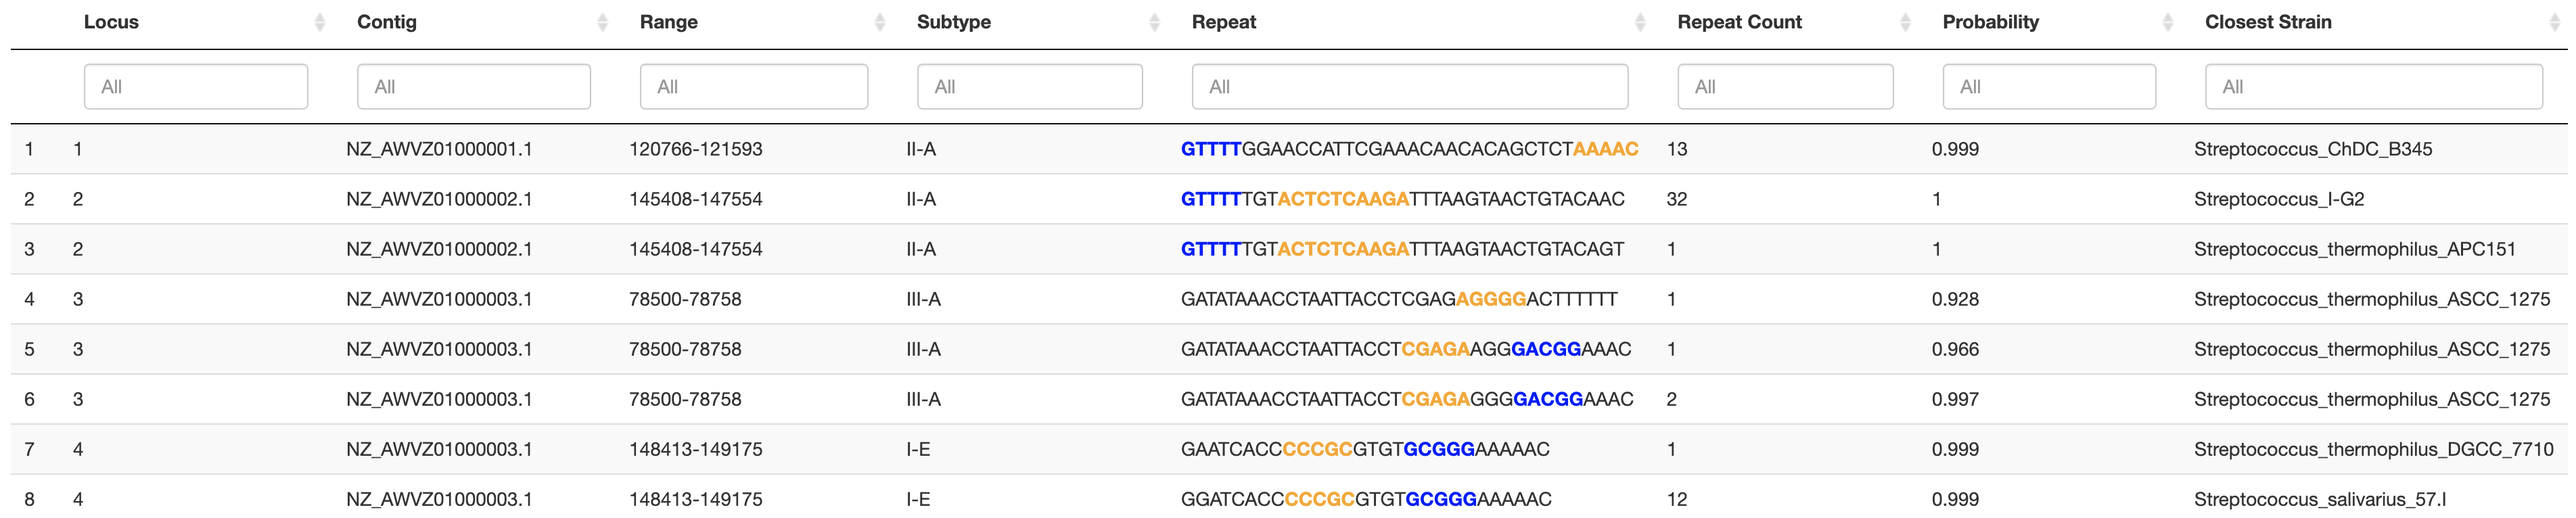
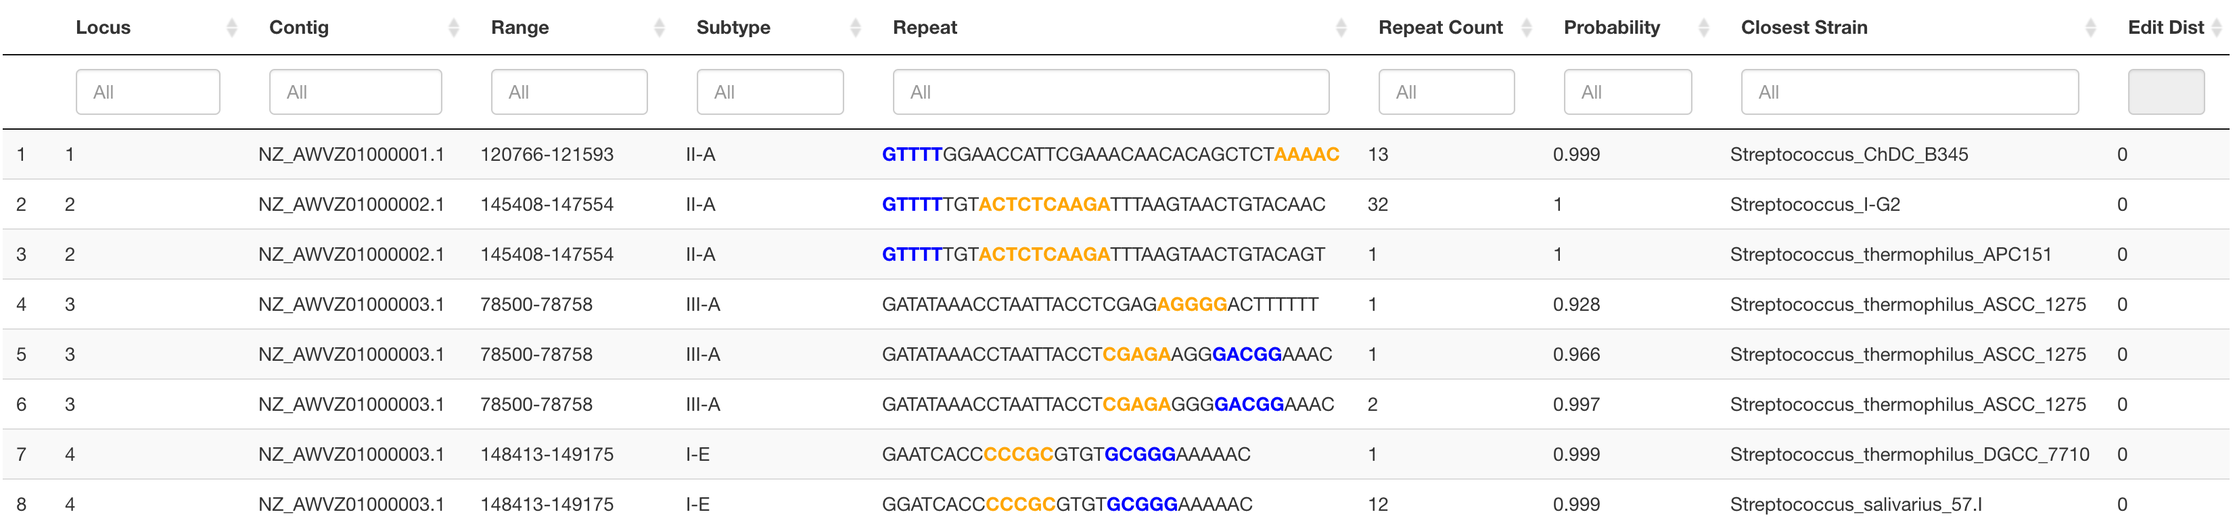
Edit distance added to output

diff --git a/README.md b/README.md
@@ -140,8 +140,9 @@ The grid output contains the following columns:
  - **Subtype:** Predicted subtype for this locus
  - **Repeat:** Lists all distinct repeats for each locus (duplicates are excluded). Blue and yellow highlights in the repeat sequence indicate significant k-mers that were used for prediction of the subtype
  - **Repeat Count:** How many of this particular repeat are found at this locus (since duplicates are excluded from the grid)
- - **Probability:** The probability that this locus is the predicted subtype. Higher is better.
+ - **Probability:** The probability that this locus is the predicted subtype. Higher is better. Predictions are considered optimal when the probability is .85 or higher.
  - **Closest Strain:** Lists the strain with the closest matching repeat sequence from the original training set. Useful when working with unknown sequences in metagenomes.
+ - **Edit Dist:** The Levenshtein distance calculated between the detected repeat and the corresponding repeat from the closest strain. An edit distance of 0 means a perfect match. An edit distance of 3, for example, indicates 3 nucleotides are mismatched between the repeats. Any matching repeats with more than 20 mismatches returns NA.
 
 
  More information on the closest matching strain (in terms of repeat similarity) from the training data can be found in the **Download** file after hitting the **Download** button:
